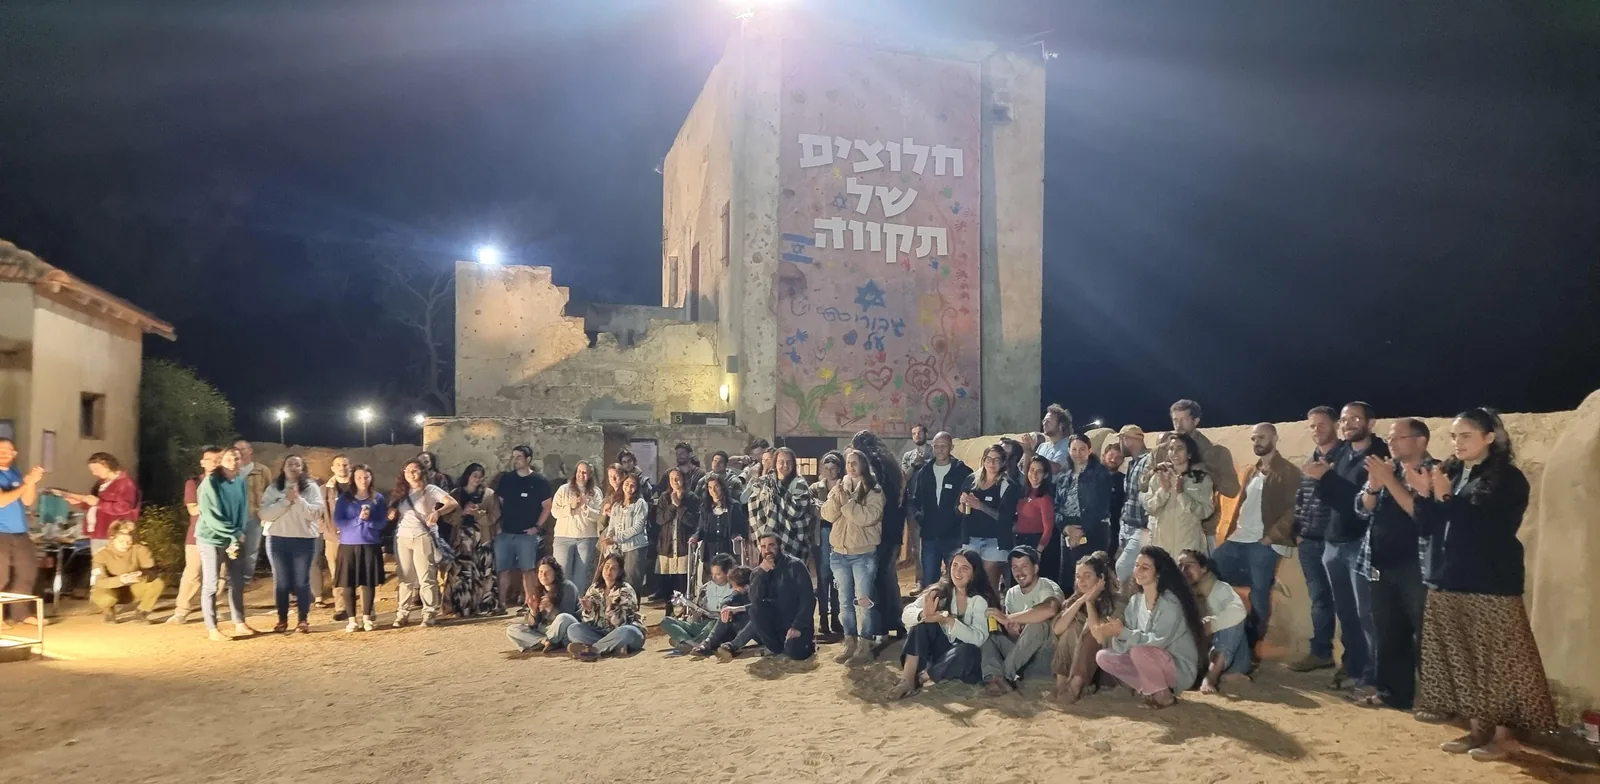
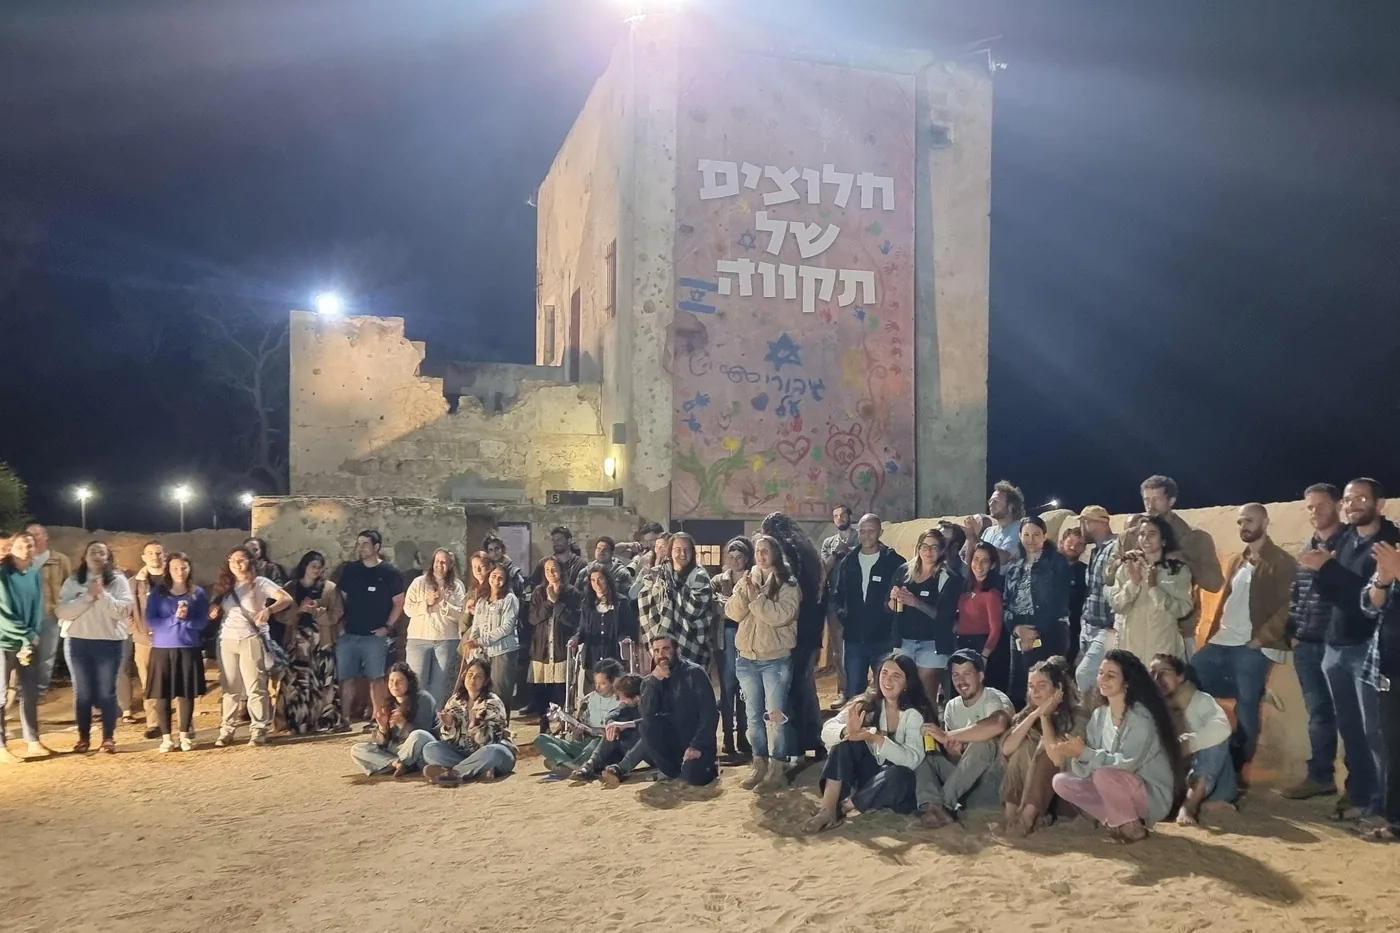
Compact, even "הפעילות שלנו" gallery with the new evening photo
Re-cropped all four community photos to a uniform 3:2 (from the raw
sources in photos/community/, incl. the newly added IMG_3736), ~1400px
webp. The gallery drops the tall-mosaic layout for a single even 4-up
row (172px, 4->2 cols responsive), so it reads cleanly and takes far
less vertical space.

diff --git a/mitzpe-gvolot/index.html b/mitzpe-gvolot/index.html
@@ -473,16 +473,13 @@ html[lang="en"] .drawer-lang{ direction:ltr; text-align:left; }
 /* photo strips + gallery */
 .deep .strip{ display:grid; grid-template-columns:repeat(4,1fr); gap:12px; margin-top:24px; }
 .deep .strip img{ width:100%; height:190px; object-fit:cover; display:block; border-radius:10px; }
-.deep .gal{ display:grid; grid-template-columns:repeat(3,1fr); gap:14px; margin-top:24px; }
-.deep .gal figure{ margin:0; position:relative; border-radius:12px; overflow:hidden; }
-.deep .gal img{ width:100%; height:100%; object-fit:cover; display:block; }
-.deep .gal .tall{ grid-row:span 2; }
-.deep .gal figure:not(.tall) img{ height:230px; }
-.deep .gal .tall img{ height:474px; }
+.deep .gal{ display:grid; grid-template-columns:repeat(4,1fr); gap:10px; margin-top:22px; }
+.deep .gal figure{ margin:0; position:relative; border-radius:10px; overflow:hidden; }
+.deep .gal img{ width:100%; height:172px; object-fit:cover; display:block; }
 .deep .gal figcaption{
-  position:absolute; inset-inline:0; bottom:0; padding:22px 16px 12px;
-  font-size:13px; color:var(--pale);
-  background:linear-gradient(180deg, transparent, rgba(8,24,43,.82));
+  position:absolute; inset-inline:0; bottom:0; padding:26px 12px 9px;
+  font-size:11.5px; line-height:1.35; color:var(--pale);
+  background:linear-gradient(180deg, transparent, rgba(8,24,43,.85));
 }
 
 /* team (from lomdim) */
@@ -496,14 +493,15 @@ html[lang="en"] .drawer-lang{ direction:ltr; text-align:left; }
   .deep .plans{ grid-template-columns:1fr; }
   .deep .aud{ grid-template-columns:1fr; }
   .deep .team{ grid-template-columns:1fr 1fr; }
+  .deep .gal{ grid-template-columns:1fr 1fr; }
+  .deep .gal img{ height:180px; }
 }
 @media (max-width:600px){
   .deep{ padding:64px 20px 52px; }
   .deep .team{ grid-template-columns:1fr; }
   .deep .strip{ grid-template-columns:1fr 1fr; }
-  .deep .gal{ grid-template-columns:1fr; }
-  .deep .gal .tall{ grid-row:auto; }
-  .deep .gal .tall img,.deep .gal figure:not(.tall) img{ height:220px; }
+  .deep .gal{ grid-template-columns:1fr 1fr; gap:8px; }
+  .deep .gal img{ height:150px; }
   .deep .d-cta{ display:block; text-align:center; }
 }
 
@@ -865,17 +863,21 @@ html[lang="en"] .cmodal-card{ text-align:left; }
 
     <h3 data-en="What we do">הפעילות שלנו</h3>
     <div class="gal">
-      <figure class="tall">
-        <img src="photos/community-group.webp" alt="קהילת הננו מתכנסת מול מגדל המצפה" data-en-alt="The Hinenu community gathers before the lookout tower" width="1600" height="784" loading="lazy">
+      <figure>
+        <img src="photos/community-group.webp" alt="קהילת הננו מתכנסת מול מגדל המצפה" data-en-alt="The Hinenu community gathers before the lookout tower" width="1400" height="933" loading="lazy">
         <figcaption data-en="The Hinenu community at Mitzpe Gvulot">קהילת הננו במצפה גבולות</figcaption>
       </figure>
       <figure>
-        <img src="photos/community-fire.webp" alt="מעגל סביב המדורה בערב" data-en-alt="A circle around the campfire at night" width="1600" height="1200" loading="lazy">
+        <img src="photos/community-evening.webp" alt="ערב במצפה גבולות סביב הבמה" data-en-alt="An evening gathering at Mitzpe Gvulot" width="1400" height="933" loading="lazy">
+        <figcaption data-en="An evening at the lookout">ערב במצפה</figcaption>
+      </figure>
+      <figure>
+        <img src="photos/community-fire.webp" alt="מעגל סביב המדורה בערב" data-en-alt="A circle around the campfire at night" width="1400" height="933" loading="lazy">
         <figcaption data-en="A Poika evening">ערב פויקה</figcaption>
       </figure>
       <figure>
-        <img src="photos/community-hall.webp" alt="מפגש קהילה באולם האבן" data-en-alt="A community gathering in the stone hall" width="1204" height="1600" loading="lazy">
-        <figcaption data-en="A relocation seminar for Shalem Academic Center alumni">סמינר מעבר לדרום של בוגרי המרכז האקדמי שלם</figcaption>
+        <img src="photos/community-hall.webp" alt="מפגש קהילה באולם האבן" data-en-alt="A community gathering in the stone hall" width="1400" height="933" loading="lazy">
+        <figcaption data-en="A seminar for Shalem Academic Center alumni">סמינר בוגרי המרכז האקדמי שלם</figcaption>
       </figure>
     </div>
 
